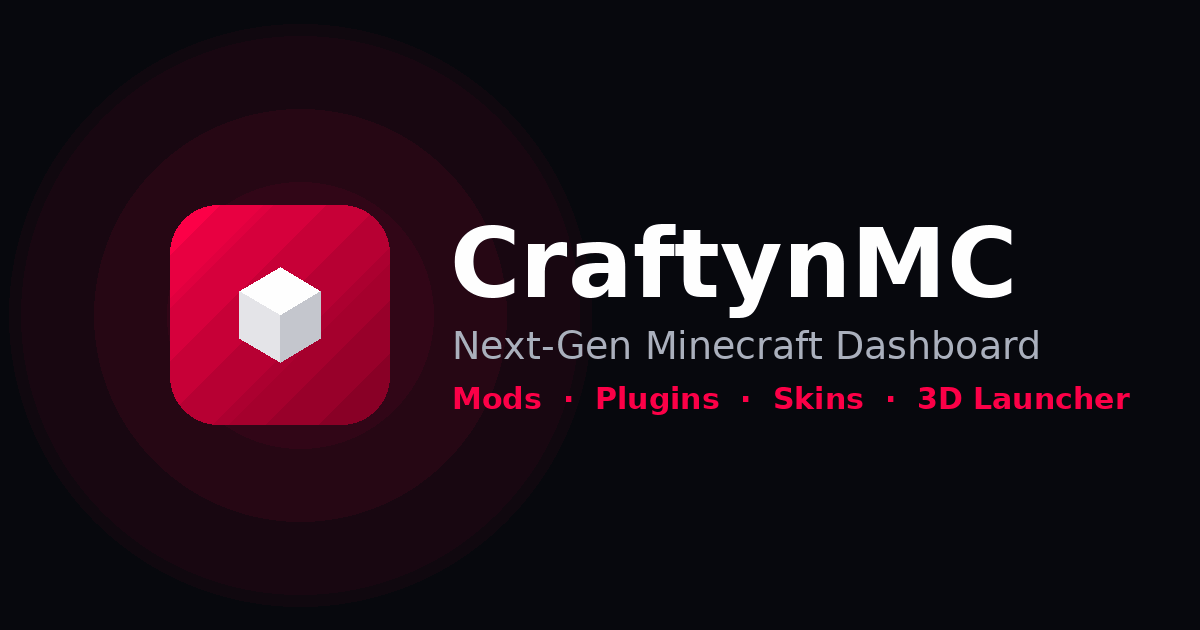
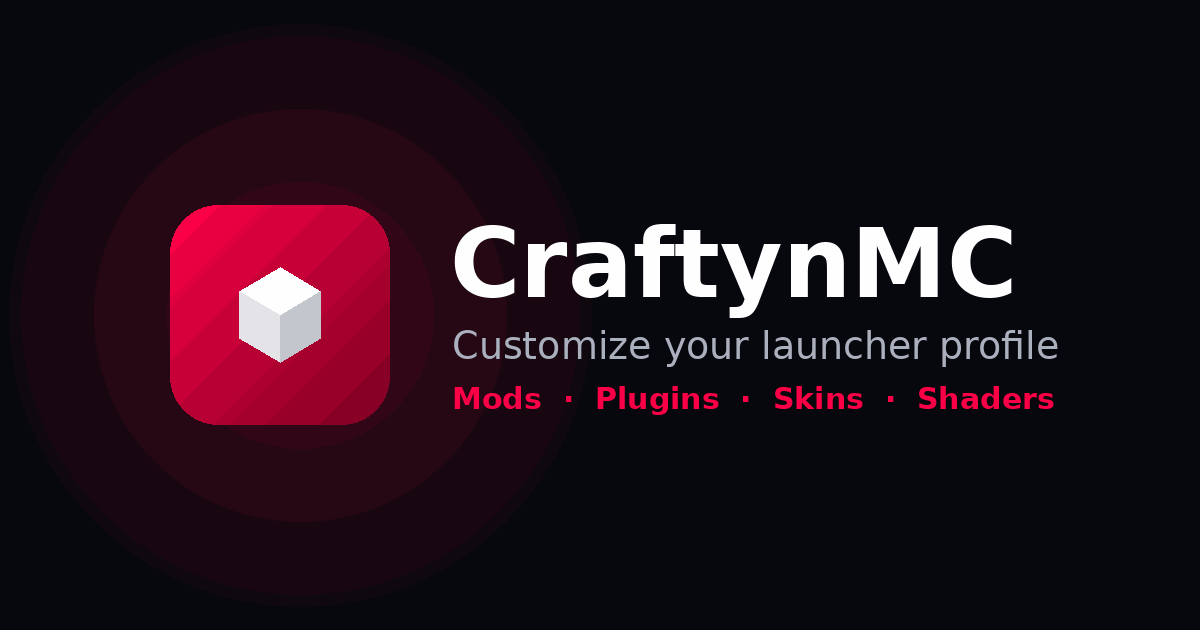
feat: admin can edit uploaded assets (PUT /admin/assets/:id) + rebrand tagline to 'Customize your launcher profile'

Changed region(s): [[0.37, 0.5127, 0.8942, 0.573], [0.7708, 0.6032, 0.9558, 0.6635]]

diff --git a/public/js/edit-assets.js b/public/js/edit-assets.js
@@ -1,0 +1,184 @@
+/* CraftynMC / FearLauncher — Admin asset editor
+ * ------------------------------------------------------------------
+ * Lets an admin edit an already-uploaded asset (title, description,
+ * lore, category, version, loaders, coin cost, drive link) and replace
+ * its icon / preview / file. index.html is untouched: this script adds
+ * an "Edit" button to each row of the admin assets table and opens a
+ * prefilled modal that PUTs to /admin/assets/:id.
+ */
+(function () {
+  "use strict";
+
+  var CATS = ["mods", "plugins", "resources", "shaders", "capes", "cosmetics", "launcher"];
+  var cache = {};
+
+  function getToken() {
+    try { if (typeof window.getToken === "function") return window.getToken(); } catch (e) {}
+    try { return localStorage.getItem("token") || ""; } catch (e) { return ""; }
+  }
+
+  function esc(s) {
+    return String(s == null ? "" : s).replace(/[&<>"']/g, function (c) {
+      return { "&": "&amp;", "<": "&lt;", ">": "&gt;", '"': "&quot;", "'": "&#39;" }[c];
+    });
+  }
+
+  function msg(el, text, ok) {
+    if (!el) return;
+    el.textContent = text;
+    el.style.color = ok ? "#00ff88" : "#ff6b8b";
+    el.style.fontSize = "12px";
+    el.style.marginTop = "8px";
+  }
+
+  function idFromRow(tr) {
+    var btn = tr.querySelector("button[onclick*='deleteAsset']");
+    if (!btn) return null;
+    var m = (btn.getAttribute("onclick") || "").match(/deleteAsset\(['"]([^'"]+)['"]\)/);
+    return m ? m[1] : null;
+  }
+
+  function fetchAll() {
+    return fetch("/api/assets", { cache: "no-store" })
+      .then(function (r) { return r.json(); })
+      .then(function (d) { (d.assets || []).forEach(function (a) { cache[a._id] = a; }); })
+      .catch(function () {});
+  }
+
+  function addEditButtons() {
+    var tbody = document.getElementById("assetsTableBody");
+    if (!tbody) return;
+    var rows = tbody.querySelectorAll("tr");
+    for (var i = 0; i < rows.length; i++) {
+      var tr = rows[i];
+      if (tr.__flEdit) continue;
+      var id = idFromRow(tr);
+      if (!id) continue;
+      var cell = tr.lastElementChild;
+      if (!cell) continue;
+      tr.__flEdit = true;
+      (function (assetId) {
+        var b = document.createElement("button");
+        b.type = "button";
+        b.className = "fl-edit-btn";
+        b.style.cssText = "padding:6px 12px;font-size:12px;margin-right:8px;background:linear-gradient(135deg,#0a84ff,#0055cc);color:#fff;border:none;border-radius:8px;cursor:pointer;font-weight:600";
+        b.innerHTML = '<i class="fas fa-pen"></i> Edit';
+        b.addEventListener("click", function (e) { e.preventDefault(); openEditor(assetId); });
+        cell.insertBefore(b, cell.firstChild);
+      })(id);
+    }
+  }
+
+  function field(label, inner) {
+    return '<label style="display:block;font-size:12px;color:var(--text-secondary);margin:10px 0 4px">' + label + "</label>" + inner;
+  }
+
+  function inputCss() {
+    return "width:100%;box-sizing:border-box;padding:10px 12px;border-radius:10px;border:1px solid var(--border-color);background:rgba(10,12,18,.6);color:#fff;font-size:13px;font-family:inherit";
+  }
+
+  function closeEditor() {
+    var ov = document.getElementById("flEditOverlay");
+    if (ov && ov.parentNode) ov.parentNode.removeChild(ov);
+  }
+
+  function openEditor(id) {
+    var a = cache[id];
+    if (!a) { fetchAll().then(function () { openEditor(id); }); return; }
+    closeEditor();
+
+    var opts = CATS.map(function (c) {
+      return '<option value="' + c + '"' + (c === a.category ? " selected" : "") + ">" + c + "</option>";
+    }).join("");
+
+    var ov = document.createElement("div");
+    ov.id = "flEditOverlay";
+    ov.style.cssText = "position:fixed;inset:0;background:rgba(4,5,10,.92);z-index:10050;display:flex;align-items:flex-start;justify-content:center;padding:24px;overflow:auto";
+    ov.innerHTML =
+      '<div style="background:var(--bg-card);border:1px solid var(--border-hover);border-radius:20px;width:min(660px,100%);padding:24px;box-shadow:0 30px 80px rgba(0,0,0,.75)">' +
+        '<div style="display:flex;justify-content:space-between;align-items:center;margin-bottom:6px">' +
+          '<h3 style="margin:0;font-family:\'Outfit\',sans-serif;color:#fff">Edit Asset</h3>' +
+          '<button type="button" id="feClose" style="background:none;border:none;color:var(--text-secondary);font-size:20px;cursor:pointer;box-shadow:none">&times;</button>' +
+        "</div>" +
+        '<p style="margin:0 0 6px;font-size:12px;color:var(--text-secondary)">Update any field and save — the storefront updates immediately.</p>' +
+        field("Name", '<input id="feName" style="' + inputCss() + '">') +
+        field("Category", '<select id="feCategory" style="' + inputCss() + '">' + opts + "</select>") +
+        '<div style="display:grid;grid-template-columns:1fr 1fr;gap:12px">' +
+          '<div>' + field("Version", '<input id="feVersion" style="' + inputCss() + '">') + "</div>" +
+          '<div>' + field("Coin cost", '<input id="feCost" type="number" min="0" style="' + inputCss() + '">') + "</div>" +
+        "</div>" +
+        field("Supported versions (comma separated)", '<input id="feVersions" style="' + inputCss() + '">') +
+        field("Loaders (comma separated, e.g. fabric, forge)", '<input id="feLoaders" style="' + inputCss() + '">') +
+        field("Lore / tagline", '<input id="feLore" style="' + inputCss() + '">') +
+        field("Description", '<textarea id="feDesc" rows="5" style="' + inputCss() + ';resize:vertical"></textarea>') +
+        field("Google Drive link (optional)", '<input id="feDrive" style="' + inputCss() + '" placeholder="https://drive.google.com/...">') +
+        field("Replace icon (optional)", '<input id="feIcon" type="file" accept="image/*" style="' + inputCss() + '">') +
+        field("Replace preview (optional)", '<input id="fePreview" type="file" accept="image/*" style="' + inputCss() + '">') +
+        field("Replace asset file (optional)", '<input id="feFile" type="file" style="' + inputCss() + '">') +
+        '<div id="feMsg"></div>' +
+        '<div style="display:flex;gap:10px;margin-top:16px">' +
+          '<button type="button" id="feSave" style="flex:1;padding:13px;border:none;border-radius:12px;background:linear-gradient(135deg,#ff0048,#8b0022);color:#fff;font-weight:700;cursor:pointer;font-family:inherit">Save changes</button>' +
+          '<button type="button" id="feCancel" style="padding:13px 18px;border:1px solid var(--border-color);border-radius:12px;background:none;color:var(--text-secondary);cursor:pointer;font-family:inherit">Cancel</button>' +
+        "</div>" +
+      "</div>";
+    document.body.appendChild(ov);
+
+    var $ = function (s) { return ov.querySelector(s); };
+    $("#feName").value = a.name || "";
+    $("#feVersion").value = a.version || "";
+    $("#feCost").value = a.coinCost != null ? a.coinCost : 0;
+    $("#feVersions").value = (a.supportedVersions || []).join(", ");
+    $("#feLoaders").value = (a.loaders || []).join(", ");
+    $("#feLore").value = a.lore || "";
+    $("#feDesc").value = a.description || "";
+    $("#feDrive").value = a.driveUrl || "";
+
+    $("#feClose").addEventListener("click", closeEditor);
+    $("#feCancel").addEventListener("click", closeEditor);
+    ov.addEventListener("click", function (e) { if (e.target === ov) closeEditor(); });
+
+    $("#feSave").addEventListener("click", function () {
+      var fd = new FormData();
+      fd.append("name", $("#feName").value.trim());
+      fd.append("category", $("#feCategory").value);
+      fd.append("version", $("#feVersion").value.trim());
+      fd.append("supportedVersions", $("#feVersions").value.trim());
+      fd.append("loaders", $("#feLoaders").value.trim());
+      fd.append("coinCost", $("#feCost").value || "0");
+      fd.append("lore", $("#feLore").value.trim());
+      fd.append("description", $("#feDesc").value.trim());
+      fd.append("driveUrl", $("#feDrive").value.trim());
+      var icon = $("#feIcon").files[0]; if (icon) fd.append("icon", icon);
+      var prev = $("#fePreview").files[0]; if (prev) fd.append("preview", prev);
+      var file = $("#feFile").files[0]; if (file) fd.append("file", file);
+
+      msg($("#feMsg"), "Saving…", true);
+      fetch("/admin/assets/" + id, {
+        method: "PUT",
+        headers: { Authorization: "Bearer " + getToken() },
+        body: fd
+      })
+        .then(function (r) { return r.json().then(function (d) { return { ok: r.ok, d: d }; }); })
+        .then(function (res) {
+          if (!res.ok) { msg($("#feMsg"), res.d.error || "Update failed", false); return; }
+          msg($("#feMsg"), "Saved successfully!", true);
+          delete cache[id];
+          fetchAll();
+          setTimeout(function () {
+            closeEditor();
+            try { if (typeof window.loadAdminAssets === "function") window.loadAdminAssets(); } catch (e) {}
+          }, 500);
+        })
+        .catch(function () { msg($("#feMsg"), "Network error during update", false); });
+    });
+  }
+
+  function init() {
+    fetchAll();
+    addEditButtons();
+    setInterval(addEditButtons, 1200);
+  }
+
+  if (document.readyState === "loading") document.addEventListener("DOMContentLoaded", init);
+  else init();
+})();

diff --git a/src/index.js b/src/index.js
@@ -28,6 +28,7 @@ const buildYggdrasilRouter = require("./routes/yggdrasil");
 //   - download-gate.js    : sponsored gate before an asset download.
 //   - site-banners.js     : dashboard leaderboard + native banner blocks.
 //   - live-stats.js       : real dashboard counters (the page uses random ones).
+//   - edit-assets.js      : admin can edit an uploaded asset (title, description...).
 //   - click-guard.js      : blocks popunder click-hijack, keeps site clicks.
 //   - Social Bar (Adsterra): floating video/animated ads, site-wide.
 //   - Popunder (Adsterra)  : high-revenue full-page ads, in <head>.
@@ -55,13 +56,14 @@ const FRONTEND_SCRIPTS =
     '<script src="/js/drive-link.js" defer></script>\n' +
     '<script src="/js/site-banners.js" defer></script>\n' +
     '<script src="/js/live-stats.js" defer></script>\n' +
+    '<script src="/js/edit-assets.js" defer></script>\n' +
     '<script src="/js/download-gate.js" defer></script>';
 const INDEX_HTML_PATH = path.join(__dirname, "..", "public", "index.html");
 let patchedIndexHtml = null;
 
-const SITE_TITLE = "CraftynMC - Next-Gen Minecraft Dashboard";
+const SITE_TITLE = "CraftynMC - Customize Your Launcher Profile";
 const SITE_DESC =
-    "Download Minecraft mods, plugins, resource packs and shaders, customise your skins, and launch the game from a next-gen 3D dashboard.";
+    "Customize your launcher profile, download Minecraft mods, plugins, resource packs and shaders, and manage your skins — all from one dashboard.";
 
 // Favicon + social/link-preview tags (Open Graph / Twitter). Absolute URLs
 // are derived from the incoming request so previews work on any domain.
@@ -90,15 +92,27 @@ function buildMeta(req) {
     ].join("\n");
 }
 
+// Swap the page <title> without a regex (avoids escaping surprises).
+function replaceTitle(html, title) {
+    const open = html.indexOf("<title>");
+    if (open === -1) return html;
+    const close = html.indexOf("</title>", open);
+    if (close === -1) return html;
+    return html.slice(0, open) + "<title>" + title + "</title>" + html.slice(close + 8);
+}
+
 function getPatchedIndexHtml() {
     if (patchedIndexHtml !== null) return patchedIndexHtml;
     try {
         const html = fs.readFileSync(INDEX_HTML_PATH, "utf8");
         patchedIndexHtml = html.includes("flAdSlot")
             ? html
-            : html
-                .replace(/<\/head>/i, HEAD_SCRIPTS + "\n</head>")
-                .replace(/<\/body>/i, FRONTEND_SCRIPTS + "\n</body>");
+            : replaceTitle(
+                html
+                    .replace(/<\/head>/i, HEAD_SCRIPTS + "\n</head>")
+                    .replace(/<\/body>/i, FRONTEND_SCRIPTS + "\n</body>"),
+                SITE_TITLE
+            );
     } catch (err) {
         console.error("[server] Could not read index.html:", err.message);
         patchedIndexHtml = "";

diff --git a/src/routes/assets.js b/src/routes/assets.js
@@ -138,7 +138,60 @@ router.post("/admin/assets", requireAuth, isAdmin, assetFieldsUpload, async (req
     }
 });
 
-// 3. Delete an asset (Admin-only)
+// 3. Update an asset (Admin-only)
+router.put("/admin/assets/:id", requireAuth, isAdmin, assetFieldsUpload, async (req, res) => {
+    try {
+        const asset = await Asset.findById(req.params.id);
+        if (!asset) {
+            return res.status(404).json({ error: "Asset not found." });
+        }
+
+        const { name, description, lore, category, version, supportedVersions, loaders, coinCost, driveUrl } = req.body;
+
+        if (category && !["mods", "plugins", "resources", "shaders", "capes", "cosmetics", "launcher"].includes(category)) {
+            return res.status(400).json({ error: "Invalid category." });
+        }
+
+        const files = req.files || {};
+        const assetFile = files.file ? files.file[0] : null;
+        const iconFile = files.icon ? files.icon[0] : null;
+        const previewFile = files.preview ? files.preview[0] : null;
+
+        if (name != null && String(name).trim()) asset.name = String(name).trim();
+        if (description != null) asset.description = String(description);
+        if (lore != null) asset.lore = String(lore);
+        if (category) asset.category = category;
+        if (version != null && String(version).trim()) asset.version = String(version).trim();
+        if (supportedVersions != null) {
+            const list = parseList(supportedVersions);
+            if (list.length) asset.supportedVersions = list;
+        }
+        if (loaders != null) asset.loaders = parseList(loaders);
+        if (coinCost != null && coinCost !== "") asset.coinCost = parseInt(coinCost) || 0;
+
+        if (driveUrl != null) {
+            const storedDrive = String(driveUrl).trim();
+            asset.driveUrl = storedDrive;
+            if (storedDrive && !assetFile) asset.downloadUrl = driveDirect(storedDrive);
+        }
+        if (assetFile) {
+            asset.downloadUrl = `/uploads/${assetFile.filename}`;
+            asset.fileSize = assetFile.size;
+        }
+        if (iconFile) asset.iconUrl = `/uploads/${iconFile.filename}`;
+        if (previewFile) asset.previewUrl = `/uploads/${previewFile.filename}`;
+
+        asset.updatedAt = new Date();
+        await asset.save();
+
+        res.json({ success: true, asset });
+    } catch (err) {
+        console.error("[asset-update]", err);
+        res.status(500).json({ error: "Internal server error during asset update." });
+    }
+});
+
+// 4. Delete an asset (Admin-only)
 router.delete("/admin/assets/:id", requireAuth, isAdmin, async (req, res) => {
     try {
         const asset = await Asset.findById(req.params.id);
